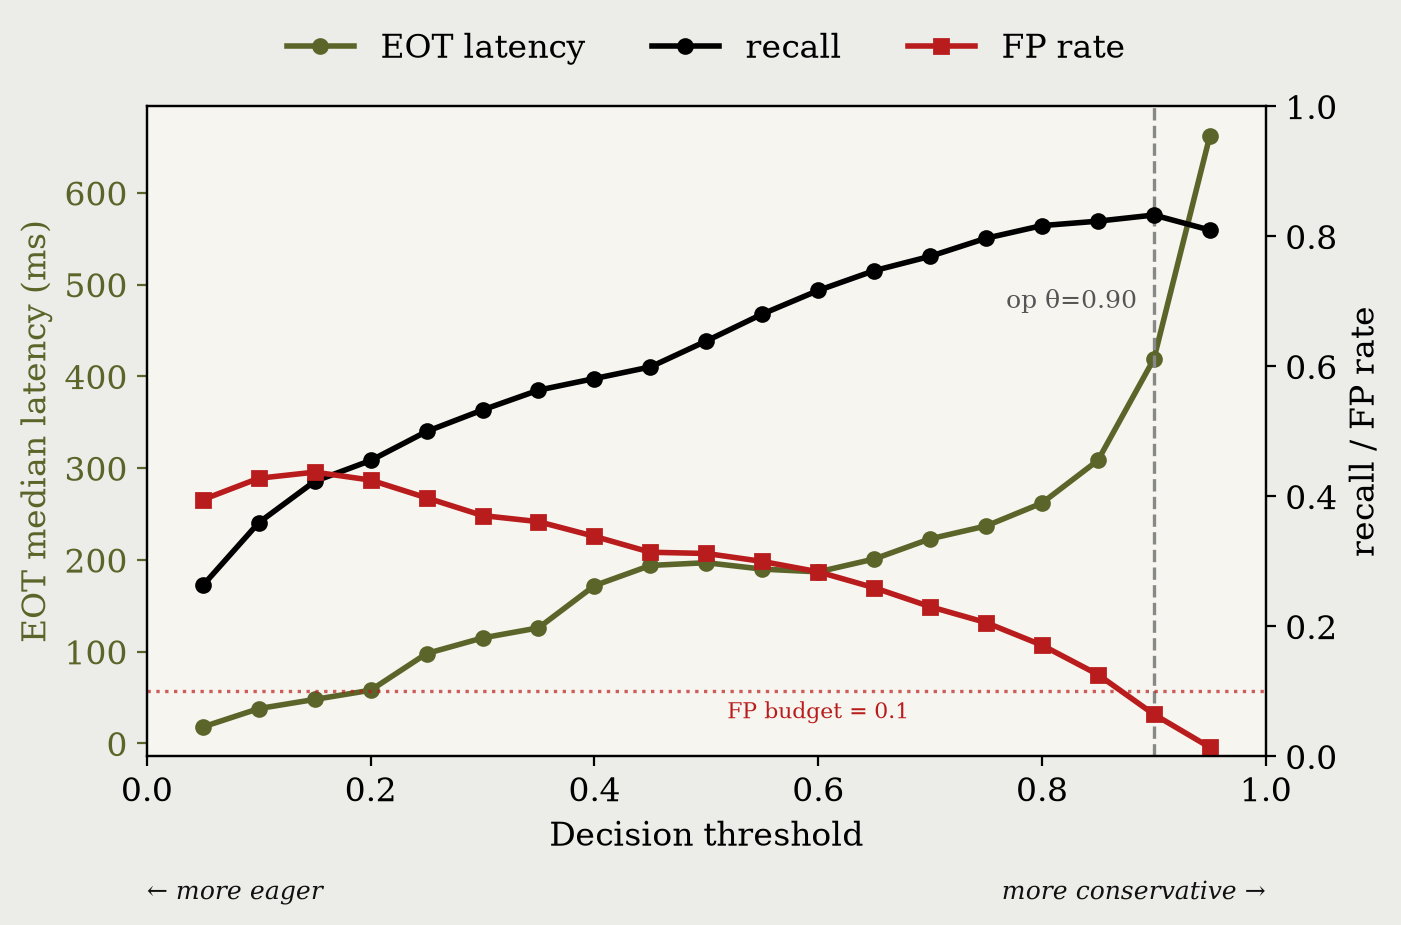
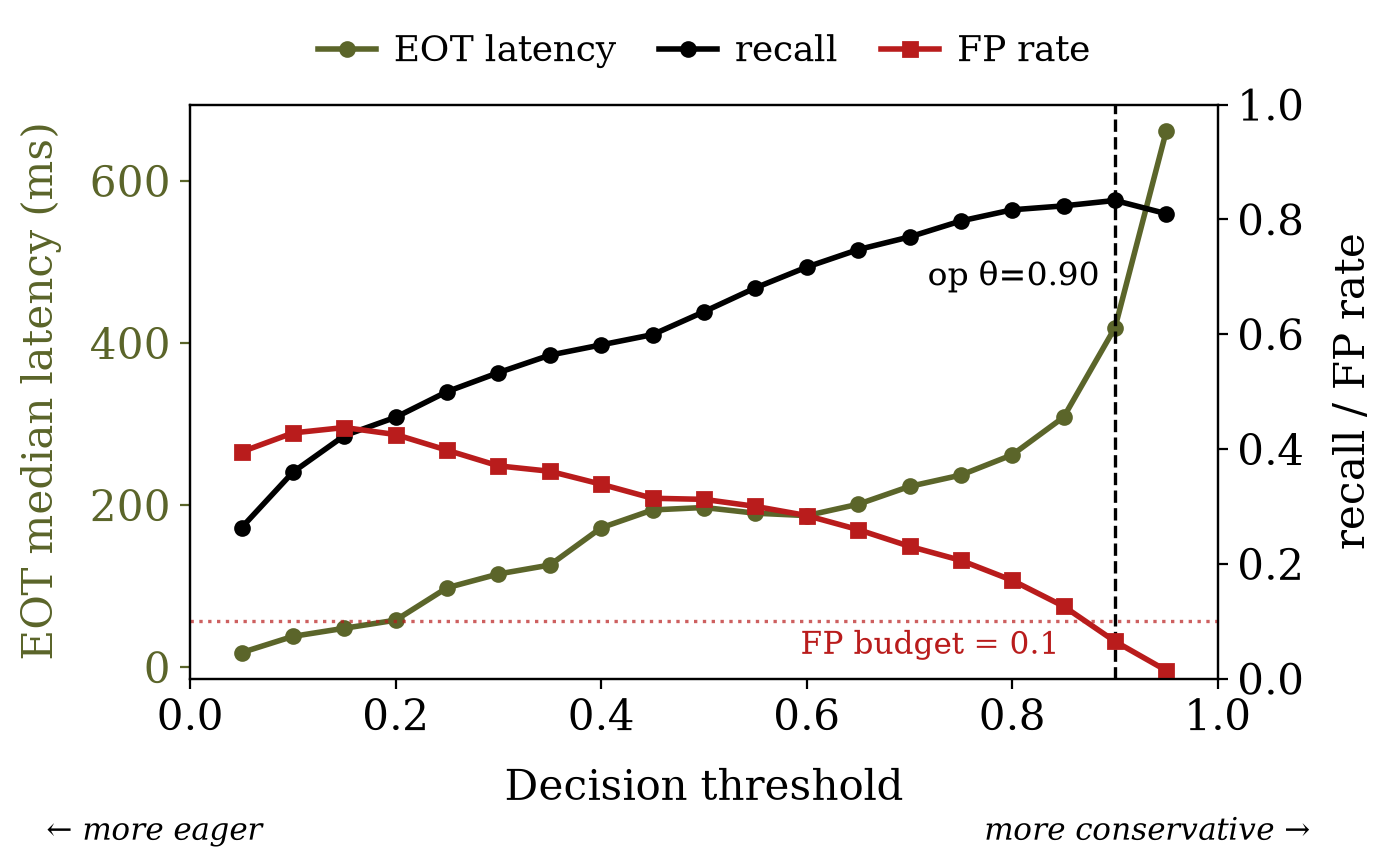
Update plot_sweep.py for improved figure aesthetics and clarity. Change background color to white, adjust text colors to enhance contrast, and increase font sizes for better readability. Modify legend positioning and text formatting for consistency. Regenerate figures to reflect these updates.

diff --git a/data_analysis/plot_sweep.py b/data_analysis/plot_sweep.py
@@ -28,13 +28,14 @@ sys.path.insert(0, str(Path(__file__).resolve().parent.parent))  # repo root, fo
 from eval.data import DEV_DATASET, resolve_dataset  # noqa: E402
 from eval.sweep import SweepRow, load_probs, operating_point, sweep  # noqa: E402
 
-# TurnBench site palette (site/src/app/globals.css): sage data hue, burgundy
-# primary, bad-red, on the bone/card surface — so figures match the paper/site.
-OLIVE = "#5b652a"    # latency (left axis) — sage
-STEEL = "#000000"    # recall (right axis) — black
-CRIMSON = "#b91c1c"  # fp_rate (right axis) — bad-red
-BG = "#f6f5ef"       # card surface
-INK = "#111111"      # foreground
+# Paper figure: white surface, black text. The three curve colors are the only
+# hues — they are functional (they tell latency / recall / FP rate apart in a
+# static figure), not theme decoration.
+OLIVE = "#5b652a"    # latency (left axis)
+STEEL = "#000000"    # recall (right axis)
+CRIMSON = "#b91c1c"  # fp_rate (right axis)
+BG = "#ffffff"       # plot surface
+INK = "#000000"      # foreground
 
 
 def _latency_masked(rows: list[SweepRow], recall_floor: float) -> list[float]:
@@ -47,17 +48,17 @@ def plot_single(rows: list[SweepRow], task: str, out: Path, *, fp_budget: float,
     matplotlib.use("Agg")
     import matplotlib.pyplot as plt
 
-    plt.rcParams.update({"font.family": "serif", "font.size": 12})
+    plt.rcParams.update({"font.family": "serif", "font.size": 15})
     op = operating_point(rows, fp_budget=fp_budget)  # picked on the full sweep
     rows = [r for r in rows if r.theta <= theta_max]  # zoom x to the live region
     theta = [r.theta for r in rows]
 
     fig, axL = plt.subplots(figsize=(7.2, 5.0))
-    fig.patch.set_facecolor("#ecece8")  # bone surface
+    fig.patch.set_facecolor(BG)  # white
     axL.set_facecolor(BG)
     line_lat, = axL.plot(theta, _latency_masked(rows, recall_floor), "o-", color=OLIVE, lw=2, ms=5, label=f"{task} latency")
-    axL.set_xlabel("Decision threshold")
-    axL.set_ylabel(f"{task} median latency (ms)")
+    axL.set_xlabel("Decision threshold", labelpad=10)
+    axL.set_ylabel(f"{task} median latency (ms)", labelpad=10)
     axL.set_xlim(0.0, theta_max)
     axL.tick_params(axis="y", colors=OLIVE)
     axL.yaxis.label.set_color(OLIVE)
@@ -65,25 +66,26 @@ def plot_single(rows: list[SweepRow], task: str, out: Path, *, fp_budget: float,
     axR = axL.twinx()
     line_rec, = axR.plot(theta, [r.recall for r in rows], "o-", color=STEEL, lw=2, ms=5, label="recall")
     line_fp, = axR.plot(theta, [r.fp_rate for r in rows], "s-", color=CRIMSON, lw=2, ms=5, label="FP rate")
-    axR.set_ylabel("recall / FP rate")
+    axR.set_ylabel("recall / FP rate", labelpad=10)
     axR.set_ylim(0.0, 1.0)
     axR.axhline(fp_budget, ls=":", lw=1.2, color=CRIMSON, alpha=0.7)  # FP-rate budget
-    axR.text(0.6, fp_budget - 0.015, f"FP budget = {fp_budget:g}", transform=axR.get_yaxis_transform(),
-             ha="center", va="top", fontsize=8, color=CRIMSON)
+    axR.text(0.72, fp_budget - 0.015, f"FP budget = {fp_budget:g}", transform=axR.get_yaxis_transform(),
+             ha="center", va="top", fontsize=11, color=CRIMSON)
 
     if op is not None:
-        axL.axvline(op.theta, ls="--", lw=1.2, color="#888")
-        axR.text(op.theta - 0.015, 0.7, f"op θ={op.theta:.2f}", color="#555", fontsize=9, va="center", ha="right")
+        axL.axvline(op.theta, ls="--", lw=1.2, color=INK)
+        axR.text(op.theta - 0.015, 0.7, f"op θ={op.theta:.2f}", color=INK, fontsize=12, va="center", ha="right")
 
     if criterion_arrows:  # low θ fires on weak evidence (eager); high θ requires strong evidence
-        axL.text(0.0, -0.19, "← more eager", transform=axL.transAxes, ha="left", va="top",
-                 fontsize=9, style="italic", color=INK)
-        axL.text(1.0, -0.19, "more conservative →", transform=axL.transAxes, ha="right", va="top",
-                 fontsize=9, style="italic", color=INK)
+        axL.text(-0.14, -0.24, "← more eager", transform=axL.transAxes, ha="left", va="top",
+                 fontsize=11, style="italic", color=INK)
+        axL.text(1.09, -0.24, "more conservative →", transform=axL.transAxes, ha="right", va="top",
+                 fontsize=11, style="italic", color=INK)
 
-    axL.legend(handles=[line_lat, line_rec, line_fp], loc="upper center", ncol=3, frameon=False, bbox_to_anchor=(0.5, 1.16))
+    axL.legend(handles=[line_lat, line_rec, line_fp], loc="upper center", ncol=3, frameon=False,
+               bbox_to_anchor=(0.5, 1.18), fontsize=13, columnspacing=1.2, handlelength=1.6, handletextpad=0.5)
     fig.tight_layout()
-    fig.savefig(out, dpi=200, facecolor="#ecece8", bbox_inches="tight")
+    fig.savefig(out, dpi=200, facecolor=BG, bbox_inches="tight")
     print(f"saved -> {out}")
 
 
